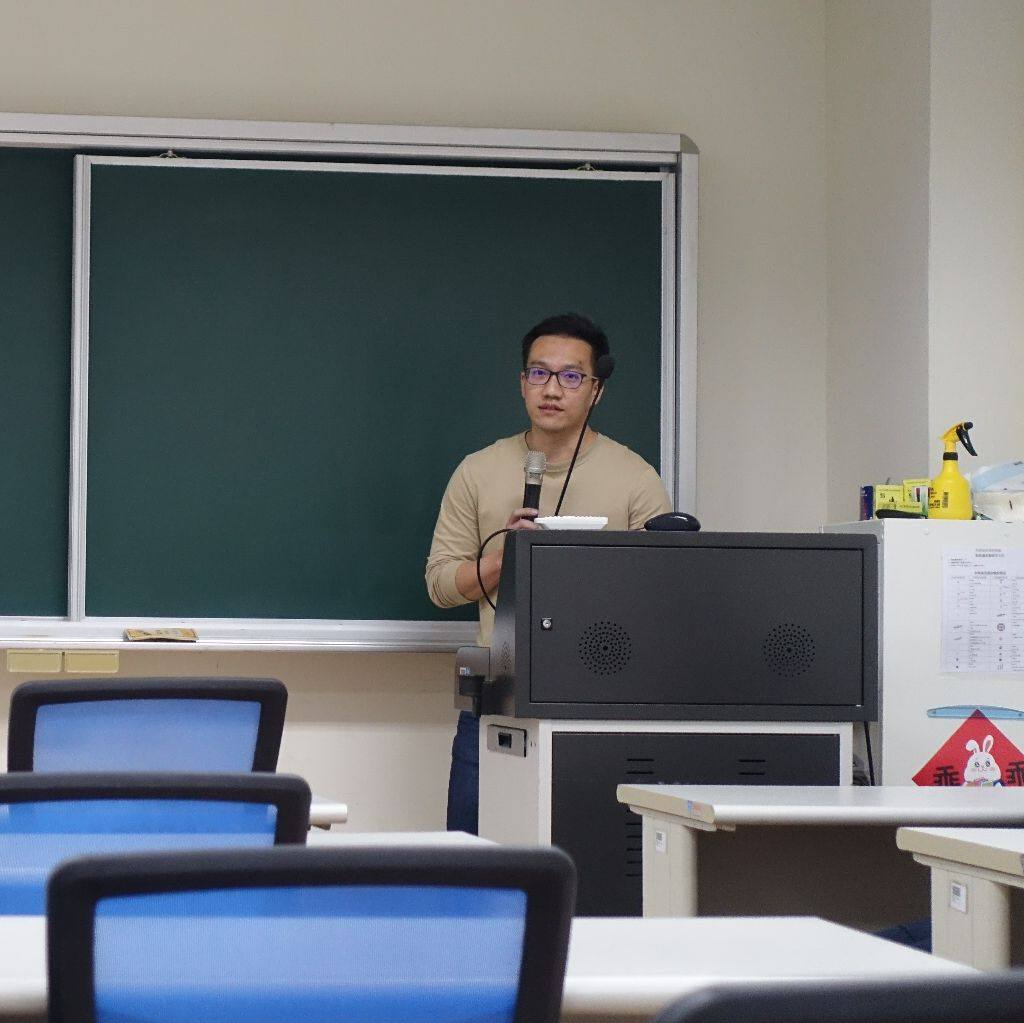
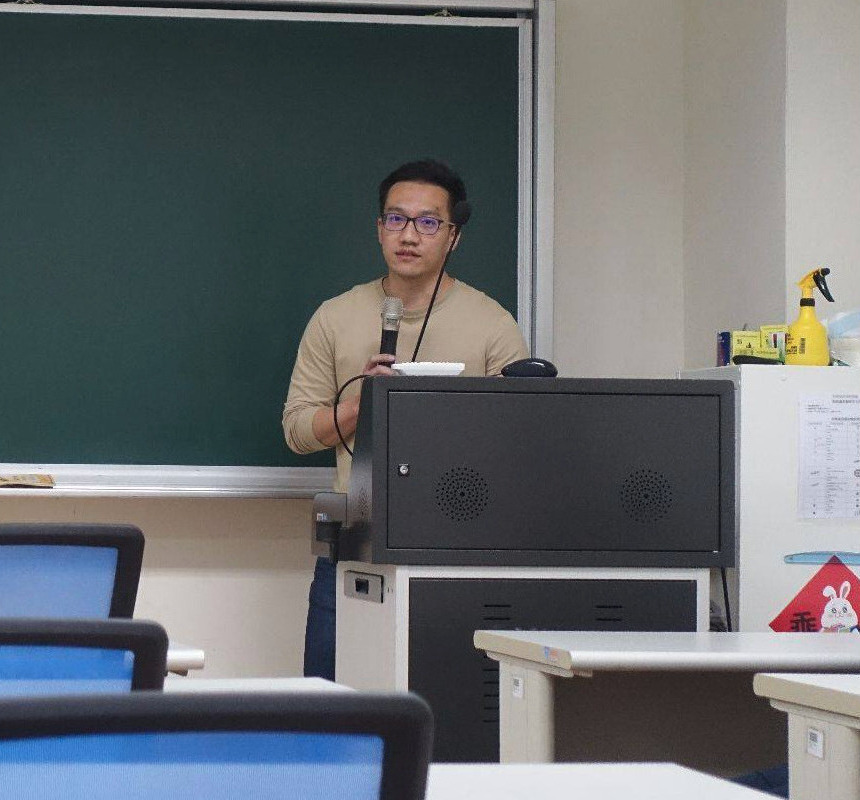
update profile

diff --git a/src/pages/index.module.css b/src/pages/index.module.css
@@ -10,11 +10,12 @@
 }
 
 .avatar {
-  width: 160px;
-  height: 160px;
+  width: 200px;
+  height: 200px;
   border-radius: 50%;
   object-fit: cover;
   margin-bottom: 1rem;
+  image-rendering: high-quality;
 }
 
 .subtitle {